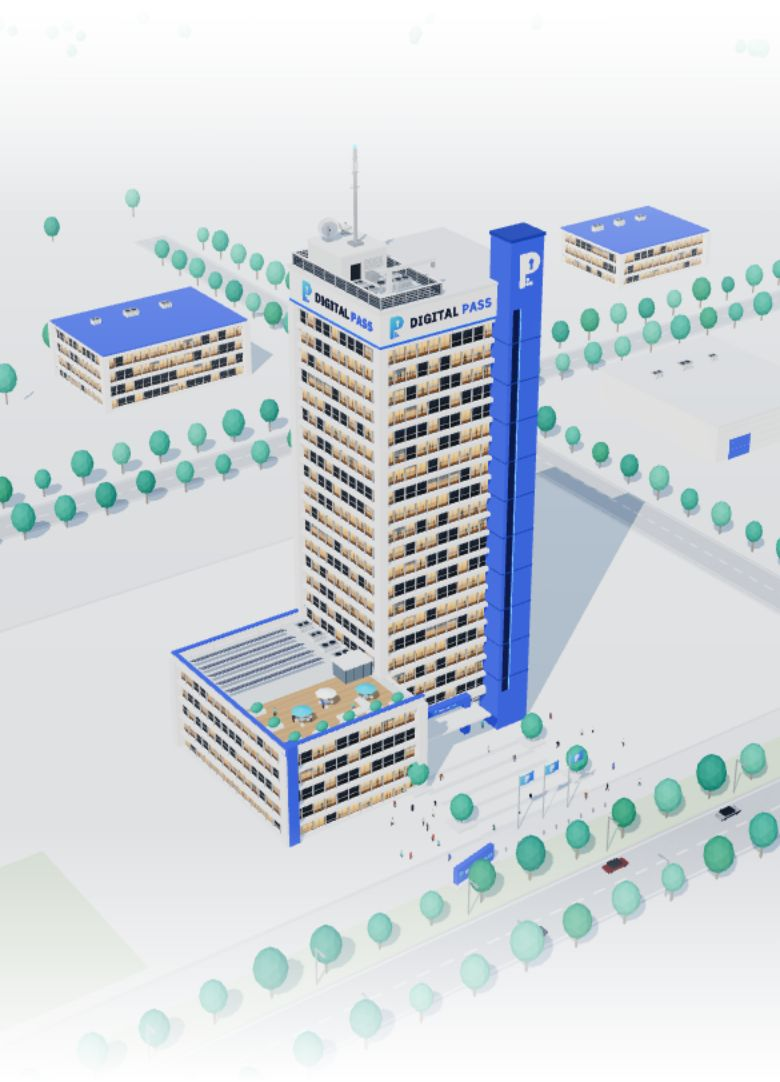
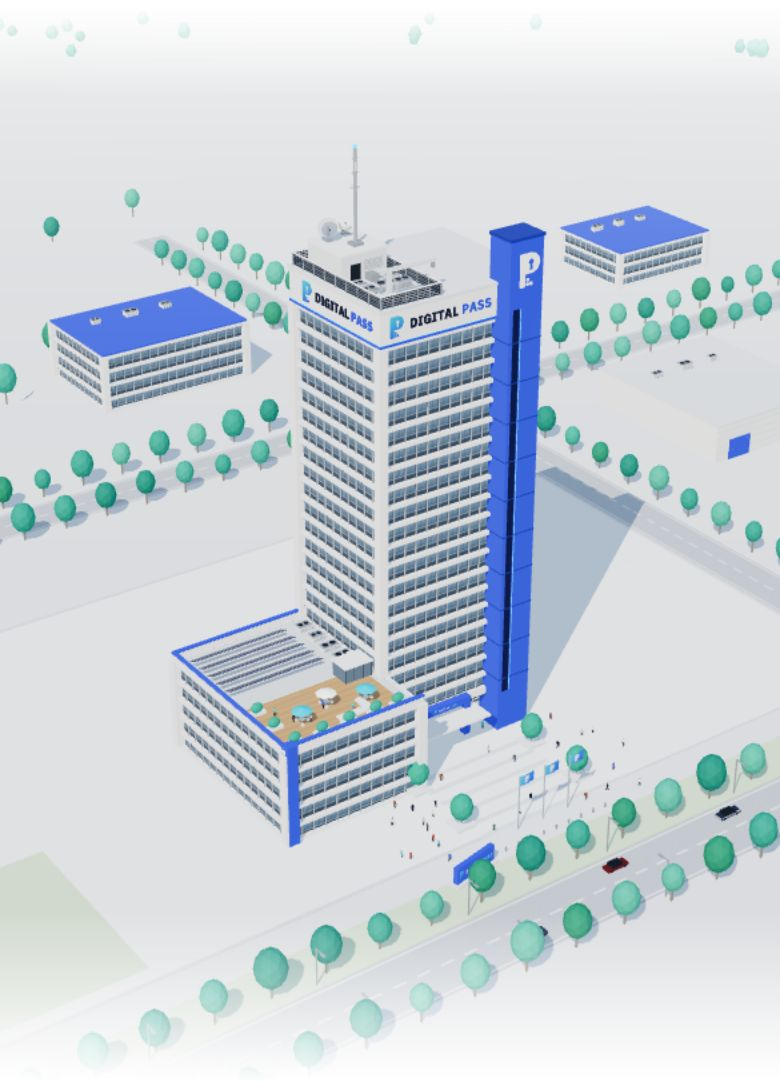
HQ model: zoom, tilt and move in every direction; natural glass
Per the owner:

- Controls: one finger or the mouse turns the building in every
  direction (around and up/down, from almost top-down to near the
  horizon, with inertia); two fingers pinch to zoom and drag to move;
  right mouse or Shift + drag moves; Ctrl + wheel or a trackpad pinch
  zooms, and the plain wheel zooms once the model is in use (until the
  pointer leaves it, so the page still scrolls). New zoom in, zoom out
  and reset buttons; keys: arrows, + / −, 0. On phones the canvas takes
  every gesture, and the top and bottom bands of the stage still scroll
  the page. Hints differ for touch and mouse (Arabic and English).
- Windows on every building are natural reflective glass (cool
  blue-grey panes with sky reflections) instead of warm lit offices.
- The mist follows the camera distance, and the edge fades are thinner
  so a zoomed-in tower isn't washed out.

Claude-Session: https://claude.ai/code/session_01TGjpk8645mFjhXBmD6ejT9

diff --git a/assets/js/hq-viewer.js b/assets/js/hq-viewer.js
@@ -47,9 +47,17 @@ function init() {
   if (!glOK || (crashed && !params.has('hq'))) { box.classList.add('is-static'); dbg('static: ' + (glOK ? 'crash flag' : 'no WebGL')); return; }
 
   /* ---------------------------------------------------------------- orbit state */
-  const POL0 = 1.08, POL_MIN = 0.78, POL_MAX = 1.36, AUTO = reduced ? 0 : 0.11;   // rad, rad/s
-  const s = { az: -0.62, pol: POL0, vAz: 0, vPol: 0, drag: null, lastInput: -1e9, visible: false, raf: 0, last: 0, frame: 0, keyTo: null };
-  let model = null, loading = false, dirty = true, dpr = 1, w = 0, h = 0, heartbeat = 0;
+  // az: around the tower, pol: from straight above, zoom: distance factor, px/pz: where the camera circles (pan)
+  const HOME = { az: -0.62, pol: 1.08, zoom: 1, px: 0, pz: 0 };
+  const LIM = { polMin: 0.3, polMax: 1.5, zMin: 0.32, zMax: 1.6, pan: 170 }, AUTO = reduced ? 0 : 0.1;   // rad, rad/s
+  const s = { ...HOME, vAz: 0, vPol: 0, goal: null, lastInput: -1e9, visible: false, raf: 0, last: 0, frame: 0, d: 300 };
+  const ptrs = new Map();   // active pointers on the canvas
+  let model = null, loading = false, dirty = true, dpr = 1, w = 0, h = 0, heartbeat = 0, engaged = false, gesture = null;
+  const clampView = () => {
+    s.pol = Math.min(LIM.polMax, Math.max(LIM.polMin, s.pol)); s.zoom = Math.min(LIM.zMax, Math.max(LIM.zMin, s.zoom));
+    const r = Math.hypot(s.px, s.pz); if (r > LIM.pan) { s.px *= LIM.pan / r; s.pz *= LIM.pan / r; }
+  };
+  const touched = () => { s.lastInput = performance.now(); s.goal = null; box.classList.add('was-dragged'); dirty = true; kick(); };
 
   function size() { const r = box.getBoundingClientRect(); w = Math.max(1, Math.round(r.width)); h = Math.max(1, Math.round(r.height)); }
   function kick() { if (!s.raf && model) s.raf = requestAnimationFrame(loop); }
@@ -57,49 +65,92 @@ function init() {
     s.raf = 0;
     const dt = s.last ? Math.min(0.05, (now - s.last) / 1000) : 0; s.last = now;
     if (!model || document.hidden || !s.visible) { s.last = 0; return; }
-    const idle = !s.drag && now - s.lastInput > 2500;
+    const idle = !ptrs.size && now - s.lastInput > 4000;
     let moving = false;
-    if (s.keyTo !== null) { const d = s.keyTo - s.az; s.az += d * Math.min(1, dt * 8); if (Math.abs(d) < 0.002) { s.az = s.keyTo; s.keyTo = null; } moving = true; }
-    else if (!s.drag && (Math.abs(s.vAz) > 0.002 || Math.abs(s.vPol) > 0.002)) {     // inertia after a flick
-      s.az += s.vAz * dt; s.pol = Math.min(POL_MAX, Math.max(POL_MIN, s.pol + s.vPol * dt));
+    if (s.goal) {                                                                      // buttons and keys glide to their target
+      const g = s.goal, k = Math.min(1, dt * 7); let done = true;
+      for (const key of Object.keys(g)) { const dv = g[key] - s[key]; s[key] += dv * k; if (Math.abs(dv) > 0.0015) done = false; else s[key] = g[key]; }
+      if (done) s.goal = null; moving = true;
+    } else if (!ptrs.size && (Math.abs(s.vAz) > 0.002 || Math.abs(s.vPol) > 0.002)) { // inertia after a flick
+      s.az += s.vAz * dt; s.pol += s.vPol * dt; clampView();
       const k = Math.exp(-dt * 3.2); s.vAz *= k; s.vPol *= k; moving = true;
     } else if (idle && AUTO) { s.az += AUTO * dt; moving = true; }
-    if (moving || dirty || s.drag) {
+    if (moving || dirty || ptrs.size) {
       // phones: the slow idle turn runs at half rate, which keeps scrolling smooth
-      if (!(mobile && idle && !dirty && (s.frame++ & 1))) { model.render(s.az, s.pol); dirty = false; }
+      if (!(mobile && idle && !dirty && (s.frame++ & 1))) { s.d = model.render(s.az, s.pol, s.zoom, { x: s.px, z: s.pz }) || s.d; dirty = false; }
     }
-    if (moving || dirty || s.drag) kick(); else s.last = 0;
+    if (moving || dirty || ptrs.size) kick(); else s.last = 0;
   }
 
-  /* ---------------------------------------------------------------- input */
+  /* ---------------------------------------------------------------- input
+     one finger / left mouse: turn in every direction · two fingers: pinch to zoom, drag to move ·
+     right mouse or Shift + drag: move · Ctrl + wheel or trackpad pinch: zoom (plain wheel zooms once the model is in use) */
+  const rotate = (dx, dy) => {
+    const k = 5.2 / Math.max(320, w);                                                  // a full-width drag ≈ 300°
+    s.az -= dx * k; s.pol -= dy * k * 0.8; clampView();
+    return [-dx * k, -dy * k * 0.8];
+  };
+  const pan = (dx, dy) => {                                                            // move the ground under the finger
+    const k = s.d * 1.1 / Math.max(320, h), ca = Math.cos(s.az), sa = Math.sin(s.az);
+    const c = Math.max(0.35, Math.cos(s.pol));
+    s.px += (-dx * ca - dy * sa / c) * k;
+    s.pz += (dx * sa - dy * ca / c) * k;
+    clampView();
+  };
+  const zoomBy = (f) => { s.zoom *= f; clampView(); };
+  const two = () => { const [a, b] = [...ptrs.values()]; return { x: (a.x + b.x) / 2, y: (a.y + b.y) / 2, d: Math.hypot(a.x - b.x, a.y - b.y) }; };
+
+  canvas.addEventListener('contextmenu', (e) => e.preventDefault());
   canvas.addEventListener('pointerdown', (e) => {
-    if (e.button > 0) return;
-    s.drag = { id: e.pointerId, x: e.clientX, y: e.clientY, t: performance.now(), vx: 0, vy: 0 };
-    s.vAz = s.vPol = 0; s.keyTo = null; s.lastInput = performance.now();
+    ptrs.set(e.pointerId, { x: e.clientX, y: e.clientY, t: performance.now() });
     try { canvas.setPointerCapture(e.pointerId); } catch (err) { /* ignore */ }
-    box.classList.add('was-dragged'); kick();
+    engaged = true; s.vAz = s.vPol = 0;
+    gesture = ptrs.size >= 2 ? { mode: 'pinch', ...two() } : { mode: e.button === 2 || e.shiftKey ? 'pan' : 'rotate', vx: 0, vy: 0, t: performance.now() };
+    touched();
   });
   canvas.addEventListener('pointermove', (e) => {
-    const d = s.drag; if (!d || e.pointerId !== d.id) return;
-    const now = performance.now(), dx = e.clientX - d.x, dy = e.clientY - d.y, dt = Math.max(0.008, (now - d.t) / 1000);
-    const k = 5.2 / Math.max(320, w);                                              // a full-width drag ≈ 300°
-    s.az -= dx * k; d.vx = -dx * k / dt;
-    if (e.pointerType === 'mouse') { s.pol = Math.min(POL_MAX, Math.max(POL_MIN, s.pol - dy * k * 0.6)); d.vy = -dy * k * 0.6 / dt; }
-    d.x = e.clientX; d.y = e.clientY; d.t = now; s.lastInput = now; dirty = true; kick();
+    const p = ptrs.get(e.pointerId); if (!p || !gesture) return;
+    const dx = e.clientX - p.x, dy = e.clientY - p.y, now = performance.now();
+    p.x = e.clientX; p.y = e.clientY;
+    if (gesture.mode === 'pinch' && ptrs.size >= 2) {
+      const g = two(); if (g.d > 10 && gesture.d > 10) zoomBy(gesture.d / g.d);
+      pan(g.x - gesture.x, g.y - gesture.y); Object.assign(gesture, g);
+    } else if (gesture.mode === 'pan') pan(dx, dy);
+    else if (gesture.mode === 'rotate') {
+      const dt = Math.max(0.008, (now - gesture.t) / 1000), [va, vp] = rotate(dx, dy);
+      gesture.vx = va / dt; gesture.vy = vp / dt; gesture.t = now;
+    }
+    touched();
   });
   const end = (e) => {
-    const d = s.drag; if (!d || (e && e.pointerId !== d.id)) return;
-    if (performance.now() - d.t < 90) { s.vAz = Math.max(-4, Math.min(4, d.vx)); s.vPol = Math.max(-2, Math.min(2, d.vy)); }
-    s.drag = null; s.lastInput = performance.now(); kick();
+    if (!ptrs.has(e.pointerId)) return;
+    ptrs.delete(e.pointerId);
+    if (gesture && gesture.mode === 'rotate' && !ptrs.size && performance.now() - gesture.t < 90) { s.vAz = Math.max(-4, Math.min(4, gesture.vx)); s.vPol = Math.max(-2, Math.min(2, gesture.vy)); }
+    gesture = ptrs.size === 1 ? { mode: 'rotate', vx: 0, vy: 0, t: performance.now() } : ptrs.size >= 2 ? { mode: 'pinch', ...two() } : null;
+    touched();
   };
   canvas.addEventListener('pointerup', end); canvas.addEventListener('pointercancel', end); canvas.addEventListener('lostpointercapture', end);
+  box.addEventListener('pointerleave', (e) => { if (e.pointerType === 'mouse') engaged = false; });
+  canvas.addEventListener('wheel', (e) => {
+    if (!e.ctrlKey && !engaged) return;                                                // let the page scroll until the model is in use
+    e.preventDefault(); zoomBy(Math.exp(e.deltaY * (e.ctrlKey ? 0.01 : 0.0015))); touched();
+  }, { passive: false });
   canvas.addEventListener('keydown', (e) => {
-    const step = Math.PI / 8;
-    if (e.key === 'ArrowLeft' || e.key === 'ArrowRight') { e.preventDefault(); s.keyTo = (s.keyTo ?? s.az) + (e.key === 'ArrowLeft' ? step : -step) * (root.dir === 'rtl' ? -1 : 1); }
-    else if (e.key === 'ArrowUp' || e.key === 'ArrowDown') { e.preventDefault(); s.pol = Math.min(POL_MAX, Math.max(POL_MIN, s.pol + (e.key === 'ArrowUp' ? -0.08 : 0.08))); dirty = true; }
+    const st = Math.PI / 8, rtl = root.dir === 'rtl' ? -1 : 1, g = { az: s.az, pol: s.pol, zoom: s.zoom, ...(s.goal || {}) };
+    if (e.key === 'ArrowLeft' || e.key === 'ArrowRight') g.az += (e.key === 'ArrowLeft' ? st : -st) * rtl;
+    else if (e.key === 'ArrowUp' || e.key === 'ArrowDown') g.pol = Math.min(LIM.polMax, Math.max(LIM.polMin, g.pol + (e.key === 'ArrowUp' ? -0.12 : 0.12)));
+    else if (e.key === '+' || e.key === '=') g.zoom = Math.max(LIM.zMin, g.zoom / 1.35);
+    else if (e.key === '-' || e.key === '_') g.zoom = Math.min(LIM.zMax, g.zoom * 1.35);
+    else if (e.key === '0' || e.key === 'Home') Object.assign(g, HOME, { az: s.az - ((s.az - HOME.az) % (2 * Math.PI)) });
     else return;
-    s.lastInput = performance.now(); box.classList.add('was-dragged'); kick();
+    e.preventDefault(); touched(); s.goal = g; kick();
   });
+  box.querySelectorAll('[data-hq-zoom]').forEach((b) => b.addEventListener('click', () => {
+    const z = s.goal && s.goal.zoom !== undefined ? s.goal.zoom : s.zoom;
+    touched(); s.goal = { zoom: Math.min(LIM.zMax, Math.max(LIM.zMin, b.dataset.hqZoom === 'in' ? z / 1.4 : z * 1.4)) }; kick();
+  }));
+  const reset = box.querySelector('[data-hq-reset]');
+  if (reset) reset.addEventListener('click', () => { touched(); s.goal = { ...HOME, az: s.az - ((s.az - HOME.az) % (2 * Math.PI)) }; kick(); });
 
   /* ---------------------------------------------------------------- boot */
   async function boot() {
@@ -109,10 +160,10 @@ function init() {
     try {
       size();
       dpr = +params.get('dpr') || Math.min(window.devicePixelRatio || 1, mobile ? 1.5 : 1.75);
-      const { createModel } = await import('./hq/model.js?v=m3');
+      const { createModel } = await import('./hq/model.js?v=m5');
       model = await createModel({ canvas, mobile, width: w, height: h, dpr, lang: lang(), onStep: (x) => dbg('model ' + x) });
       canvas.addEventListener('webglcontextlost', (e) => { e.preventDefault(); dbg('CONTEXT LOST'); fail(); });
-      model.render(s.az, s.pol);
+      s.d = model.render(s.az, s.pol, s.zoom, { x: s.px, z: s.pz }) || s.d;
       box.classList.remove('is-loading'); box.classList.add('is-ready');
       dirty = true; kick();
     } catch (err) { dbg('FAIL ' + (err && err.message)); console.error('[hq] 3D model failed, keeping the picture', err); fail(); }
@@ -133,5 +184,5 @@ function init() {
     if (document.hidden) { guard(false); } else { if (model || loading) guard(true); dirty = true; kick(); }
   });
   new MutationObserver(() => { if (model) { model.setLang(lang()); dirty = true; kick(); } }).observe(root, { attributes: true, attributeFilter: ['lang'] });
-  window.__hq = { state: s, get ready() { return !!model; }, info: () => model && { ...model.renderer.info.render, textures: model.renderer.info.memory.textures, geometries: model.renderer.info.memory.geometries } };
+  window.__hq = { state: s, get ready() { return !!model; }, get engaged() { return engaged; }, info: () => model && { ...model.renderer.info.render, textures: model.renderer.info.memory.textures, geometries: model.renderer.info.memory.geometries } };
 }

diff --git a/assets/js/hq/site.js b/assets/js/hq/site.js
@@ -21,6 +21,29 @@ export const lb = (K, w, h, d, col, x, y, z) => K.box(w, h, d, M.glow, x, y, z, 
 const ground = (level, o) => geo('ground' + level + (o.map ? o.map.uuid : ''), () => std({ roughness: 0.9, polygonOffset: true, polygonOffsetFactor: -level, polygonOffsetUnits: -level * 2, ...o }));
 
 /* ---------- window grid: 12 bays x 8 floors with readable rooms, plus a matching emissive map ---------- */
+/* glass: natural reflective glass panes (cool blue-grey, sky reflections, no lit interiors) instead of offices */
+function glassMaterial(W) {
+  const R = rng(17), cols = 12, rows = 8, cw = 2048 / cols, ch = 1536 / rows, top = 0.2, F = 8, k = W / 2048;
+  const map = canvasTex(W, W * 0.75, (g) => {
+    g.scale(k, k); g.fillStyle = '#4a5562'; g.fillRect(0, 0, 2048, 1536);        // frame and spandrels
+    for (let r = 0; r < rows; r++) for (let c = 0; c < cols; c++) {
+      const x = c * cw, y = r * ch, gy = y + ch * top, gh = ch * (1 - top), px = x + F, pw = cw - 2 * F, py = gy + 3, ph = gh - F - 2;
+      const t = R() * 0.12 - 0.06, gr = g.createLinearGradient(0, py, 0, py + ph);   // sky above, ground below, a touch of tone per pane
+      const mix = (a, b) => `rgb(${a.map((v, i) => Math.round(v + (b[i] - v) * (0.5 + t))).join(',')})`;
+      gr.addColorStop(0, mix([150, 182, 210], [176, 202, 226])); gr.addColorStop(0.45, mix([102, 132, 160], [122, 152, 178])); gr.addColorStop(1, mix([62, 84, 104], [78, 100, 120]));
+      g.fillStyle = gr; g.fillRect(px, py, pw, ph);
+      if (R() < 0.5) {                                                                 // a diagonal sheen on some panes
+        g.save(); g.beginPath(); g.rect(px, py, pw, ph); g.clip(); g.fillStyle = 'rgba(255,255,255,0.13)';
+        const sx = px - ph * 0.6 + R() * 1.6 * (pw + ph * 0.6);
+        g.beginPath(); g.moveTo(sx, py + ph); g.lineTo(sx + 34, py + ph); g.lineTo(sx + 34 + ph * 0.6, py); g.lineTo(sx + ph * 0.6, py); g.fill(); g.restore();
+      }
+      g.fillStyle = 'rgba(20,30,40,0.18)'; g.fillRect(px, py + ph * 0.84, pw, ph * 0.16);   // sill shadow
+      g.fillStyle = '#3c4652'; g.fillRect(x + cw / 2 - 2.5, gy, 5, gh); g.fillRect(px, py + ph * 0.84, pw, 4);   // mullion, transom
+      g.fillStyle = 'rgba(255,255,255,0.22)'; g.fillRect(px, py, pw, 2);
+    }
+  }, { aniso: 8, scale: 1 });
+  return std({ map, color: 0xffffff, roughness: 0.1, metalness: 0.55, envMapIntensity: 1.25 });
+}
 function windowMaterial(W) {
   const R = rng(11), cols = 12, rows = 8, cw = 2048 / cols, ch = 1536 / rows, top = 0.2, F = 8, k = W / 2048;
   const cells = [];
@@ -502,7 +525,7 @@ function forecourt(K, group, T, R) {
 /* built in a few steps, yielding to the page in between so scrolling never stalls while the HQ is put together */
 /* plot: { x0, x1, z0, z1 } turns the campus into an architectural model on a plinth: no terrain, everything trimmed
    to the rectangle, a white base with a navy band and the logo on its front edge. */
-export async function buildSite({ brandGeo, windowSize = 2048, keepClear = [], plot = null, reach = 0 }) {
+export async function buildSite({ brandGeo, windowSize = 2048, keepClear = [], plot = null, reach = 0, glass = false }) {
   const group = new THREE.Group(), R = rng(9), step = () => new Promise((r) => setTimeout(r, 0));
   const K = makeKit(), KL = makeKit({ cast: false, receive: false }), F = quadBatch(), D = quadBatch();
   if (plot) { setClip(plot); plinth(group, brandGeo, plot); }
@@ -513,7 +536,7 @@ export async function buildSite({ brandGeo, windowSize = 2048, keepClear = [], p
   wing(K, KL, F, group, rng(100));
   forecourt(K, group, brandGeo, rng(3)); await step();
   K.build(group); KL.build(group); await step();
-  const win = new THREE.Mesh(F.build(), windowMaterial(windowSize)); win.receiveShadow = true; group.add(win);
+  const win = new THREE.Mesh(F.build(), glass ? glassMaterial(windowSize) : windowMaterial(windowSize)); win.receiveShadow = true; group.add(win);
   const rt = roadTex();
   const roads = new THREE.Mesh(D.build(), ground(2, { map: rt })); roads.receiveShadow = true; group.add(roads);
   setClip(null);

diff --git a/assets/css/hq.css b/assets/css/hq.css
@@ -11,7 +11,7 @@
 }
 .hq-fade { /* the land melts into the page above and below: no edge anywhere */
   position: absolute; z-index: 2; inset: 0; pointer-events: none;
-  background: linear-gradient(180deg, var(--white) 0%, rgba(255,255,255,0) 20%, rgba(255,255,255,0) 76%, var(--white) 100%);
+  background: linear-gradient(180deg, var(--white) 0%, rgba(255,255,255,0) 9%, rgba(255,255,255,0) 84%, var(--white) 100%);
 }
 .hq-stage::before { /* the picture of the model: shown while loading, kept as the fallback */
   content: ""; position: absolute; inset: 0; z-index: 0;
@@ -20,13 +20,27 @@
 @media (max-aspect-ratio: 4/5) { .hq-stage::before { background-image: url("../img/hq-model-portrait.jpg"); } }
 .hq-stage.is-ready::before { opacity: 0; }
 .hq-canvas { position: absolute; inset: 0; z-index: 1; display: block; width: 100%; height: 100%; opacity: 0; transition: opacity .8s var(--ease);
-  touch-action: pan-y; cursor: grab; outline: none; -webkit-tap-highlight-color: transparent; }
+  touch-action: none; cursor: grab; outline: none; -webkit-tap-highlight-color: transparent; }
+/* phones: the top and bottom bands of the stage still scroll the page (the model takes every gesture in between) */
+.hq-scroll { position: absolute; z-index: 2; inset-inline: 0; height: 13%; touch-action: pan-y; display: none; }
+.hq-scroll--top { top: 0; } .hq-scroll--bottom { bottom: 0; }
+@media (pointer: coarse) { .hq-scroll { display: block; } }
+.hq-tools { position: absolute; z-index: 3; bottom: 20px; inset-inline-start: max(16px, calc(50vw - 600px)); display: flex; gap: 8px; opacity: 0; transition: opacity .5s var(--ease); }
+.hq-stage.is-ready .hq-tools { opacity: 1; }
+.hq-btn { width: 42px; height: 42px; display: grid; place-items: center; border-radius: 50%; border: 1px solid rgba(10,27,61,.12); background: rgba(255,255,255,.92); color: var(--navy);
+  box-shadow: 0 8px 22px -12px rgba(10,27,61,.45); transition: background-color .2s, color .2s, transform .2s; }
+.hq-btn svg { width: 20px; height: 20px; }
+.hq-btn:hover, .hq-btn:focus-visible { background: var(--blue); color: #fff; }
+.hq-btn:active { transform: scale(.94); }
+.hq-stage:not(.is-ready) .hq-btn { pointer-events: none; }
+.hq-hint .t-touch { display: none; }
+@media (pointer: coarse) { .hq-hint .t-touch { display: inline; } .hq-hint .t-mouse { display: none; } }
 .hq-stage.is-ready .hq-canvas { opacity: 1; }
 .hq-stage.is-static .hq-canvas { display: none; }
 .hq-canvas:active { cursor: grabbing; }
 .hq-canvas:focus-visible { box-shadow: inset 0 0 0 3px var(--blue); }
 .hq-hint {
-  position: absolute; z-index: 3; bottom: 22px; left: 50%; transform: translateX(-50%);
+  position: absolute; z-index: 3; bottom: 80px; left: 50%; transform: translateX(-50%);
   display: inline-flex; align-items: center; gap: 9px; padding: 9px 16px; border-radius: 99px;
   font-size: 13.5px; font-weight: 600; color: #fff; background: rgba(10, 27, 61, .82); white-space: nowrap;
   pointer-events: none; opacity: 0; transition: opacity .5s var(--ease);
@@ -44,6 +58,7 @@
 @keyframes hq-spin { to { transform: rotate(360deg); } }
 @media (max-width: 899px) {
   .hq-stage { height: clamp(380px, 64vh, 600px); }
-  .hq-hint { bottom: 14px; font-size: 12.5px; padding: 8px 14px; }
+  .hq-hint { bottom: 76px; font-size: 12.5px; padding: 8px 14px; }
+  .hq-tools { bottom: 18px; } .hq-btn { width: 40px; height: 40px; }
 }
 @media (prefers-reduced-motion: reduce) { .hq-hint path, .hq-stage.is-loading::after { animation: none; } }

diff --git a/index.html b/index.html
@@ -27,7 +27,7 @@
   <link href="https://fonts.googleapis.com/css2?family=IBM+Plex+Mono:wght@400;500&family=IBM+Plex+Sans+Arabic:wght@400;500;600;700&family=IBM+Plex+Sans:wght@700&family=Inter:wght@400;500;600;700&display=swap" rel="stylesheet">
 
   <link rel="stylesheet" href="assets/css/style.css?v=20261111d">
-  <link rel="stylesheet" href="assets/css/hq.css?v=m3">
+  <link rel="stylesheet" href="assets/css/hq.css?v=m5">
   <script>document.documentElement.classList.add('js');</script>
 
   <!-- Structured data for search engines. If the phone number changes, update it here too (and in assets/js/config.js). -->
@@ -286,8 +286,15 @@
       </div>
       <div class="hq-stage reveal" data-hq>
         <div class="hq-fade" aria-hidden="true"></div>
-        <canvas class="hq-canvas" tabindex="0" role="img" aria-label="مجسّم ثلاثي الأبعاد لمبنى Digital Pass، اسحبه أو استخدم الأسهم لتدويره" data-i18n-aria="hq.aria"></canvas>
-        <p class="hq-hint" aria-hidden="true"><svg viewBox="0 0 24 24" fill="none" stroke="currentColor" stroke-width="2" stroke-linecap="round" stroke-linejoin="round"><path d="M8 7l-5 5 5 5M16 7l5 5-5 5M3 12h18"/></svg><span data-i18n="hq.hint">اسحب لتدوير المبنى</span></p>
+        <canvas class="hq-canvas" tabindex="0" role="img" aria-label="مجسّم ثلاثي الأبعاد لمبنى Digital Pass: اسحبه لتدويره، والأسهم للتدوير، و+ و− للتقريب والتبعيد" data-i18n-aria="hq.aria"></canvas>
+        <div class="hq-scroll hq-scroll--top" aria-hidden="true"></div>
+        <div class="hq-scroll hq-scroll--bottom" aria-hidden="true"></div>
+        <p class="hq-hint" aria-hidden="true"><svg viewBox="0 0 24 24" fill="none" stroke="currentColor" stroke-width="2" stroke-linecap="round" stroke-linejoin="round"><path d="M8 7l-5 5 5 5M16 7l5 5-5 5M3 12h18"/></svg><span class="t-mouse" data-i18n="hq.hint">اسحب لتدوير المبنى، وقرّب بالأزرار</span><span class="t-touch" data-i18n="hq.hintTouch">حرّك بإصبع، وقرّب بإصبعين</span></p>
+        <div class="hq-tools">
+          <button type="button" class="hq-btn" data-hq-zoom="in" aria-label="تقريب" data-i18n-aria="hq.zoomIn"><svg viewBox="0 0 24 24" fill="none" stroke="currentColor" stroke-width="2.2" stroke-linecap="round"><path d="M12 5v14M5 12h14"/></svg></button>
+          <button type="button" class="hq-btn" data-hq-zoom="out" aria-label="تبعيد" data-i18n-aria="hq.zoomOut"><svg viewBox="0 0 24 24" fill="none" stroke="currentColor" stroke-width="2.2" stroke-linecap="round"><path d="M5 12h14"/></svg></button>
+          <button type="button" class="hq-btn" data-hq-reset aria-label="إرجاع المبنى لوضعه" data-i18n-aria="hq.reset"><svg viewBox="0 0 24 24" fill="none" stroke="currentColor" stroke-width="2" stroke-linecap="round" stroke-linejoin="round"><path d="M3 12a9 9 0 1 0 3-6.7"/><path d="M3 4v5h5"/></svg></button>
+        </div>
       </div>
     </div>
   </section>
@@ -730,8 +737,8 @@
 </a>
 
 <script src="assets/js/config.js?v=20261111d"></script>
-<script src="assets/js/i18n.js?v=20261116m"></script>
+<script src="assets/js/i18n.js?v=20261116n"></script>
 <script src="assets/js/main.js?v=20261111d"></script>
-<script type="module" src="assets/js/hq-viewer.js?v=m3"></script>
+<script type="module" src="assets/js/hq-viewer.js?v=m5"></script>
 </body>
 </html>

diff --git a/assets/js/hq/model.js b/assets/js/hq/model.js
@@ -43,7 +43,7 @@ export async function createModel({ canvas, mobile, width, height, dpr, lang = '
   brandGeo.logoLight = logoGeometry(brand, { cap: 1, depth: 0.12, light: true }); brandGeo.symbol = symbolGeometry(brand, { height: 1, depth: 0.045 });
   await tick();
   onStep('site');
-  const site = await buildSite({ brandGeo, windowSize: mobile ? 1024 : 2048, reach: 1250 });
+  const site = await buildSite({ brandGeo, windowSize: mobile ? 1024 : 2048, reach: 1250, glass: true });
   scene.add(site.group);
   await tick();
 
@@ -59,18 +59,22 @@ export async function createModel({ canvas, mobile, width, height, dpr, lang = '
   onStep('ready');
 
   let w = width, h = height, first = true;
-  /* az: angle around the model (0 = looking at the entrance side), polar: angle from straight above */
-  function render(az, polar, zoom = 1) {
+  /* az: angle around the tower (0 = looking at the entrance side), polar: angle from straight above,
+     zoom: distance factor (1 = whole tower in view), pan: { x, z } shift of the point the camera circles */
+  function render(az, polar, zoom = 1, pan = null) {
     camera.aspect = w / h;
     const vf = THREE.MathUtils.degToRad(camera.fov), hf = 2 * Math.atan(Math.tan(vf / 2) * camera.aspect);
-    const d = (R * (camera.aspect > 1.2 ? 1.12 : 1)) / Math.sin(Math.min(vf, hf) / 2) * zoom;     // tower and antenna stay in view at any angle
-    camera.position.set(target.x + d * Math.sin(polar) * Math.sin(az), target.y + d * Math.cos(polar), target.z + d * Math.sin(polar) * Math.cos(az));
-    camera.lookAt(target);
-    camera.near = Math.max(2, d * 0.15);
+    const d = (R * (camera.aspect > 1.2 ? 1.12 : 1)) / Math.sin(Math.min(vf, hf) / 2) * zoom;
+    const tx = target.x + (pan ? pan.x : 0), tz = target.z + (pan ? pan.z : 0);
+    camera.position.set(tx + d * Math.sin(polar) * Math.sin(az), target.y + d * Math.cos(polar), tz + d * Math.sin(polar) * Math.cos(az));
+    camera.lookAt(tx, target.y, tz);
+    camera.near = Math.max(1.5, d * 0.08);
+    scene.fog.near = d + 60; scene.fog.far = d + 1000;                                // the mist keeps its distance from the camera
     camera.updateProjectionMatrix();
     if (first) onStep('first render');
     renderer.render(scene, camera);
     if (first) { first = false; onStep('first render done'); }
+    return d;
   }
   return {
     renderer, scene, render,

diff --git a/assets/js/i18n.js b/assets/js/i18n.js
@@ -72,8 +72,12 @@ window.DP_I18N = {
     "hq.label": "The Digital Pass model",
     "hq.title": "We build your digital solutions, floor by floor",
     "hq.lead": "A 3D model in the Digital Pass identity: from the foundation to the roof, every floor is a step in your digital journey. Turn it and see it from every side.",
-    "hq.hint": "Drag to rotate",
-    "hq.aria": "3D model of the Digital Pass building. Drag it or use the arrow keys to rotate it.",
+    "hq.hint": "Drag to turn the building, zoom with the buttons",
+    "hq.hintTouch": "Move with one finger, pinch to zoom",
+    "hq.zoomIn": "Zoom in",
+    "hq.zoomOut": "Zoom out",
+    "hq.reset": "Reset the view",
+    "hq.aria": "3D model of the Digital Pass building: drag to turn it, arrow keys to turn, + and − to zoom.",
     "about.vision": "To be the gateway through which individuals and small and medium-sized businesses cross into the digital future with confidence.",
     "about.missionT": "Our mission",
     "about.mission": "We build systems and apps tailored to each client, then run them together after launch, so their work runs more efficiently with less effort.",
